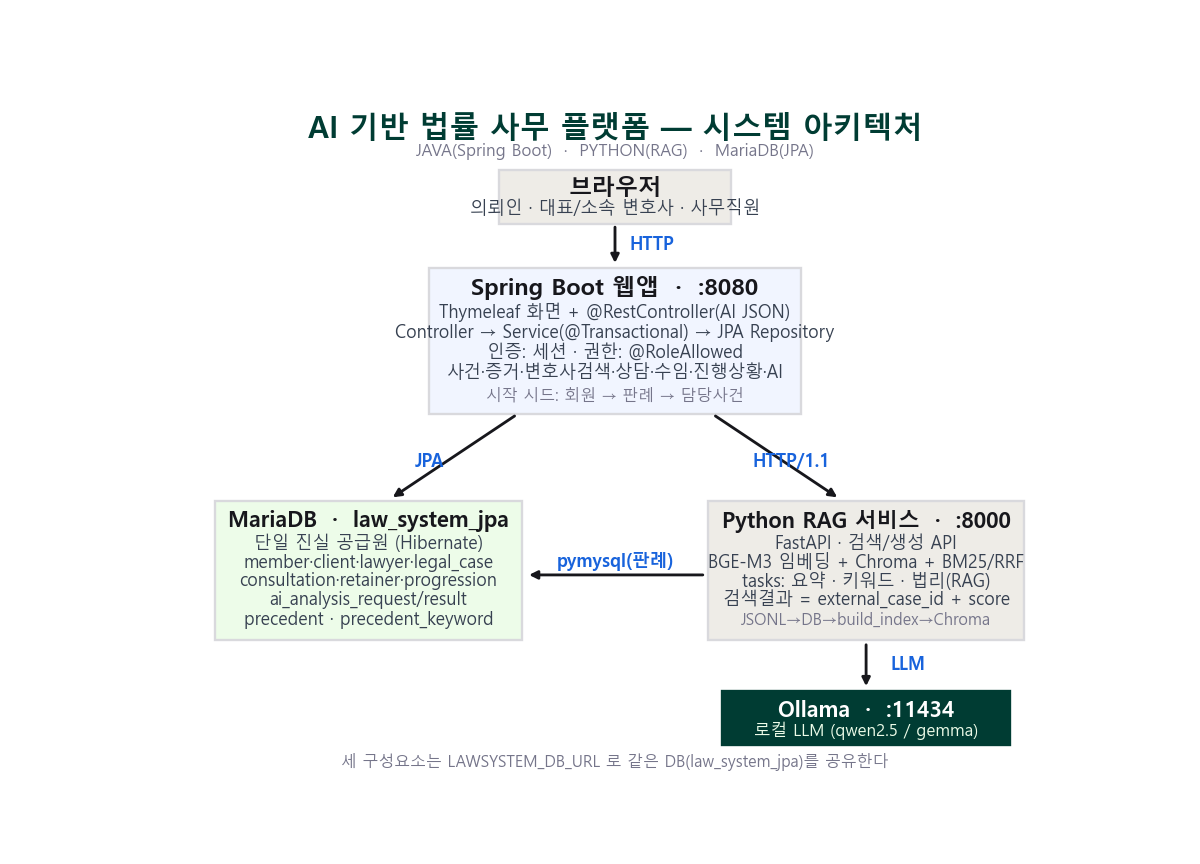
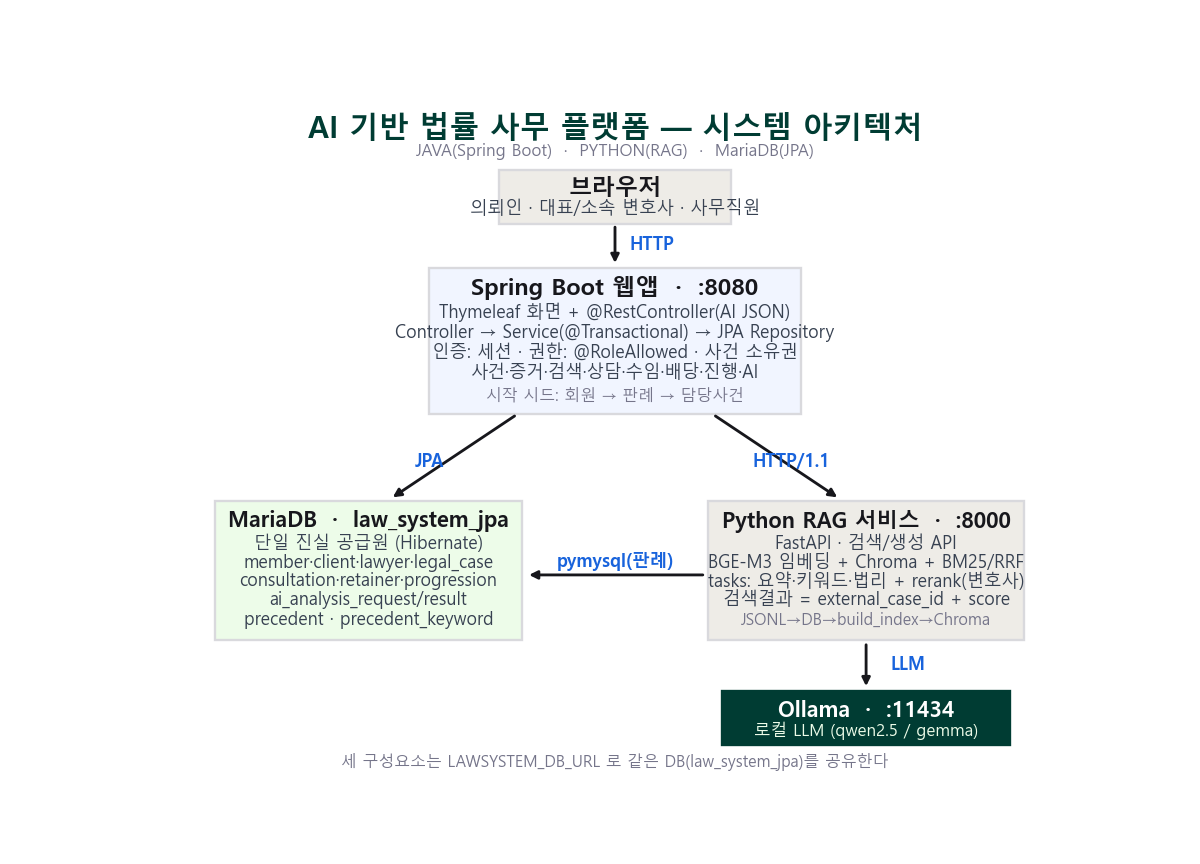
docs: 최근 변경사항 전체 반영 (ARCHITECTURE.md + 다이어그램)
- 소유권 접근제어(4.10), 사건 배당(4.9), 상담완료→수임(4.6/4.7) 추가
- AI 영속화 JPA 일원화 + 웹 경로 100% JPA 명시
- 변호사 벡터 검색 + /embed/rerank REST 계약 추가
- 역할표·상태enum·설계결정·구현현황 갱신
- architecture.png/svg 갱신 + 생성 스크립트(make_diagram.py) 포함

Changed region(s): [[0.37, 0.375, 0.6475, 0.4375], [0.5858, 0.6562, 0.8633, 0.6875]]

diff --git a/docs/make_diagram.py b/docs/make_diagram.py
@@ -1,0 +1,86 @@
+# -*- coding: utf-8 -*-
+import matplotlib
+matplotlib.use("Agg")
+import matplotlib.pyplot as plt
+from matplotlib.patches import Rectangle
+
+plt.rcParams["font.family"] = "Malgun Gothic"
+plt.rcParams["axes.unicode_minus"] = False
+
+fig, ax = plt.subplots(figsize=(10, 7.2), dpi=120)
+ax.set_xlim(0, 1000)
+ax.set_ylim(0, 720)
+ax.invert_yaxis()
+ax.axis("off")
+
+
+def box(x, y, w, h, fc, ec="#d9d9dd"):
+    ax.add_patch(Rectangle((x, y), w, h, linewidth=1.4, edgecolor=ec, facecolor=fc))
+
+
+def t(x, y, s, size=11, color="#374151", weight="normal"):
+    ax.text(x, y, s, fontsize=size, color=color, weight=weight, ha="center", va="center")
+
+
+def arrow(x1, y1, x2, y2, label="", lx=None, ly=None):
+    ax.annotate("", xy=(x2, y2), xytext=(x1, y1),
+                arrowprops=dict(arrowstyle="-|>", color="#17171c", lw=1.7))
+    if label:
+        ax.text(lx if lx is not None else (x1 + x2) / 2,
+                ly if ly is not None else (y1 + y2) / 2,
+                label, fontsize=10.5, color="#1863dc", weight="bold", ha="center", va="center")
+
+
+# title
+t(500, 28, "AI 기반 법률 사무 플랫폼 — 시스템 아키텍처", 18, "#003c33", "bold")
+t(500, 52, "JAVA(Spring Boot)  ·  PYTHON(RAG)  ·  MariaDB(JPA)", 10, "#75758a")
+
+# Browser
+box(375, 72, 250, 58, "#eeece7")
+t(500, 92, "브라우저", 14, "#17171c", "bold")
+t(500, 114, "의뢰인 · 대표/소속 변호사 · 사무직원", 10.5)
+
+# Spring Boot
+box(300, 178, 400, 158, "#f1f5ff")
+t(500, 200, "Spring Boot 웹앱  ·  :8080", 14, "#17171c", "bold")
+t(500, 226, "Thymeleaf 화면 + @RestController(AI JSON)", 10.5)
+t(500, 248, "Controller → Service(@Transactional) → JPA Repository", 10.5)
+t(500, 270, "인증: 세션 · 권한: @RoleAllowed · 사건 소유권", 10.5)
+t(500, 292, "사건·증거·검색·상담·수임·배당·진행·AI", 10.5)
+t(500, 316, "시작 시드: 회원 → 판례 → 담당사건", 9.5, "#75758a")
+
+# MariaDB
+box(70, 430, 330, 150, "#edfce9")
+t(235, 452, "MariaDB  ·  law_system_jpa", 13, "#17171c", "bold")
+t(235, 476, "단일 진실 공급원 (Hibernate)", 10.5)
+t(235, 497, "member·client·lawyer·legal_case", 10.5)
+t(235, 517, "consultation·retainer·progression", 10.5)
+t(235, 537, "ai_analysis_request/result", 10.5)
+t(235, 559, "precedent · precedent_keyword", 10.5)
+
+# Python RAG
+box(600, 430, 340, 150, "#eeece7")
+t(770, 452, "Python RAG 서비스  ·  :8000", 13, "#17171c", "bold")
+t(770, 476, "FastAPI · 검색/생성 API", 10.5)
+t(770, 497, "BGE-M3 임베딩 + Chroma + BM25/RRF", 10.5)
+t(770, 517, "tasks: 요약·키워드·법리 + rerank(변호사)", 10.5)
+t(770, 537, "검색결과 = external_case_id + score", 10.5)
+t(770, 559, "JSONL→DB→build_index→Chroma", 9.5, "#75758a")
+
+# Ollama
+box(615, 636, 310, 58, "#003c33", "#003c33")
+t(770, 657, "Ollama  ·  :11434", 13, "#ffffff", "bold")
+t(770, 679, "로컬 LLM (qwen2.5 / gemma)", 10, "#edfce9")
+
+# arrows
+arrow(500, 130, 500, 176, "HTTP", 540, 153)
+arrow(395, 336, 258, 428, "JPA", 300, 388)
+arrow(605, 336, 742, 428, "HTTP/1.1", 690, 388)
+arrow(598, 510, 404, 510, "pymysql(판례)", 500, 495)
+arrow(770, 582, 770, 634, "LLM", 815, 608)
+
+t(500, 712, "세 구성요소는 LAWSYSTEM_DB_URL 로 같은 DB(law_system_jpa)를 공유한다", 9.5, "#75758a")
+
+out = r"\\192.168.0.17\Code\java\Distribute\architecture.png"
+plt.savefig(out, dpi=120, facecolor="white")
+print("saved:", out)